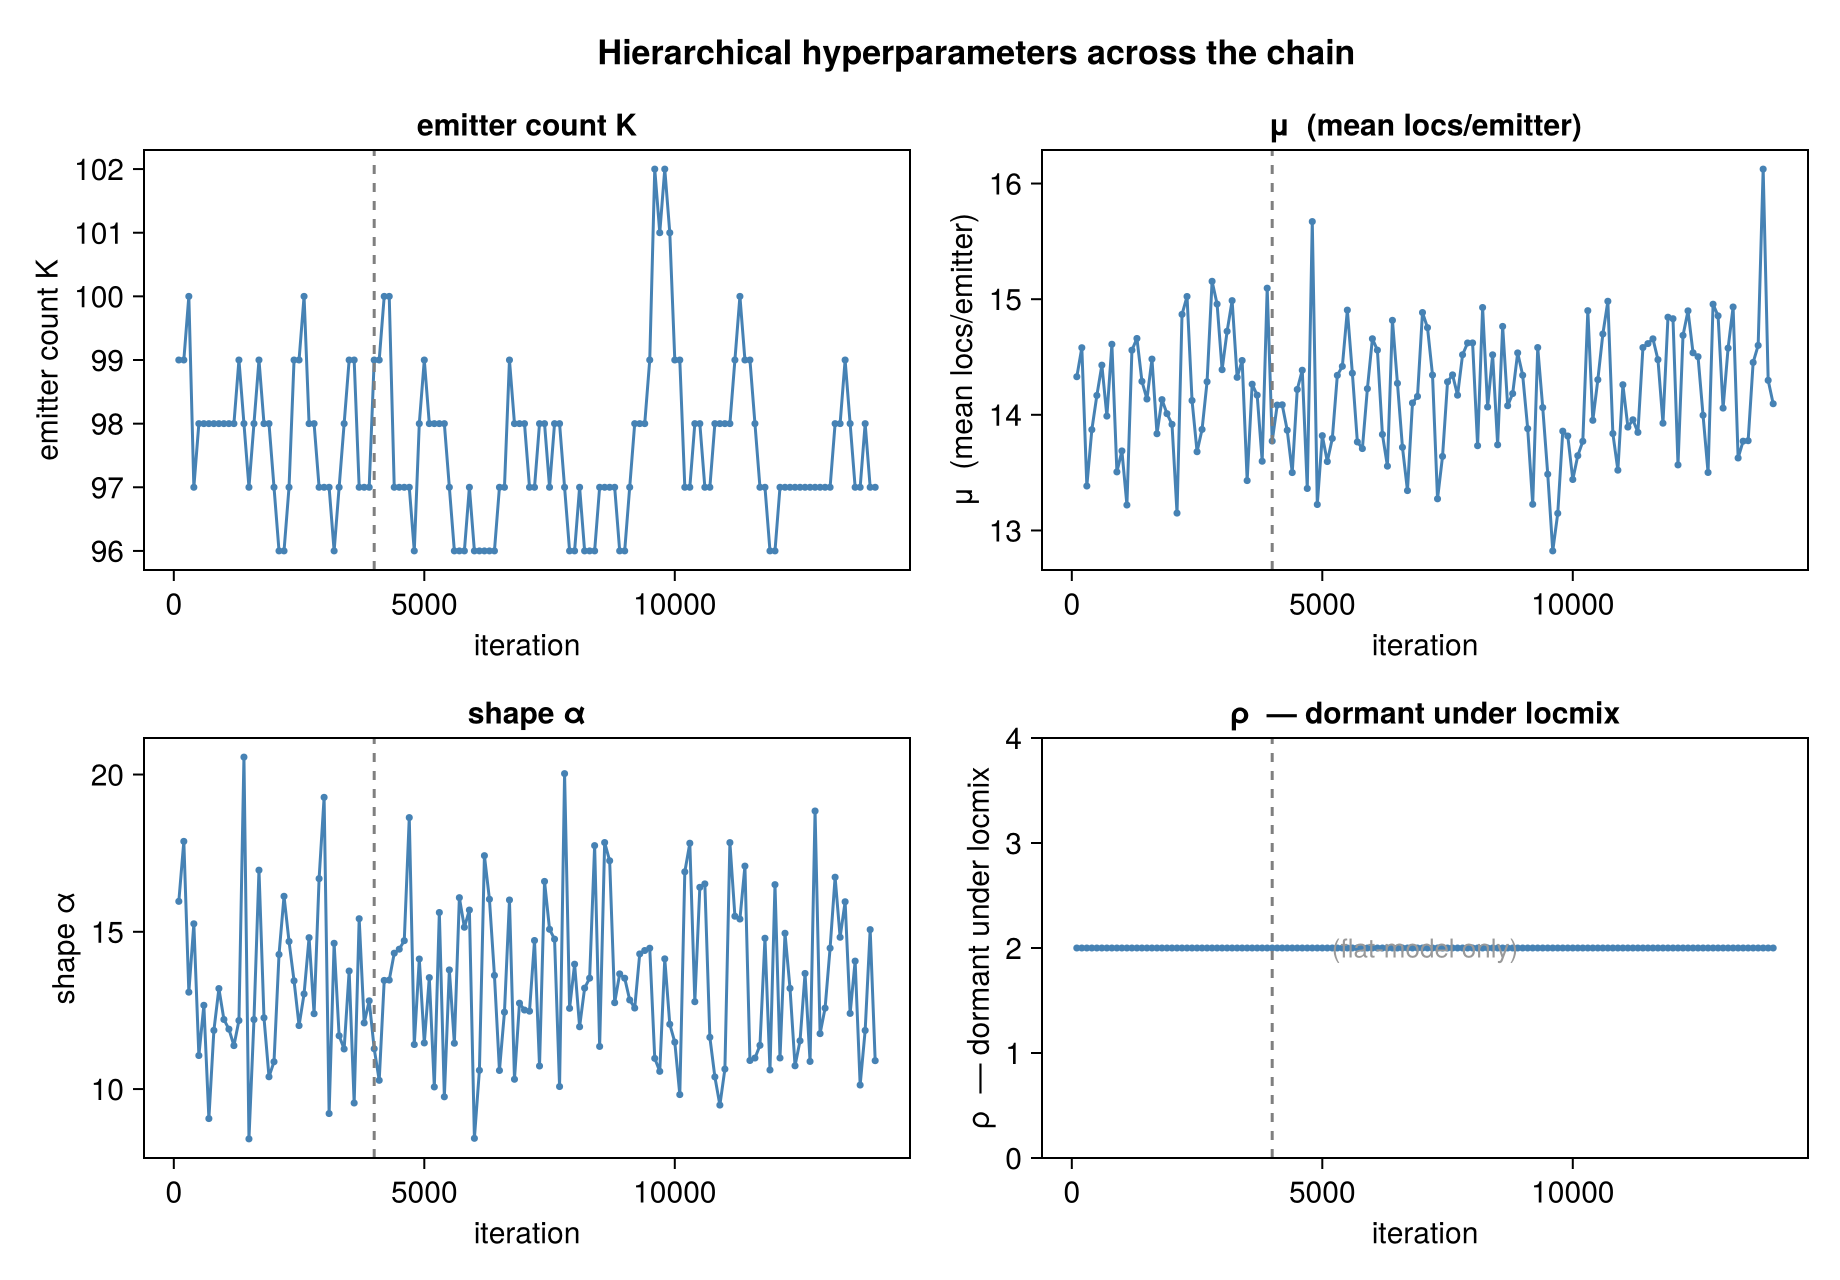
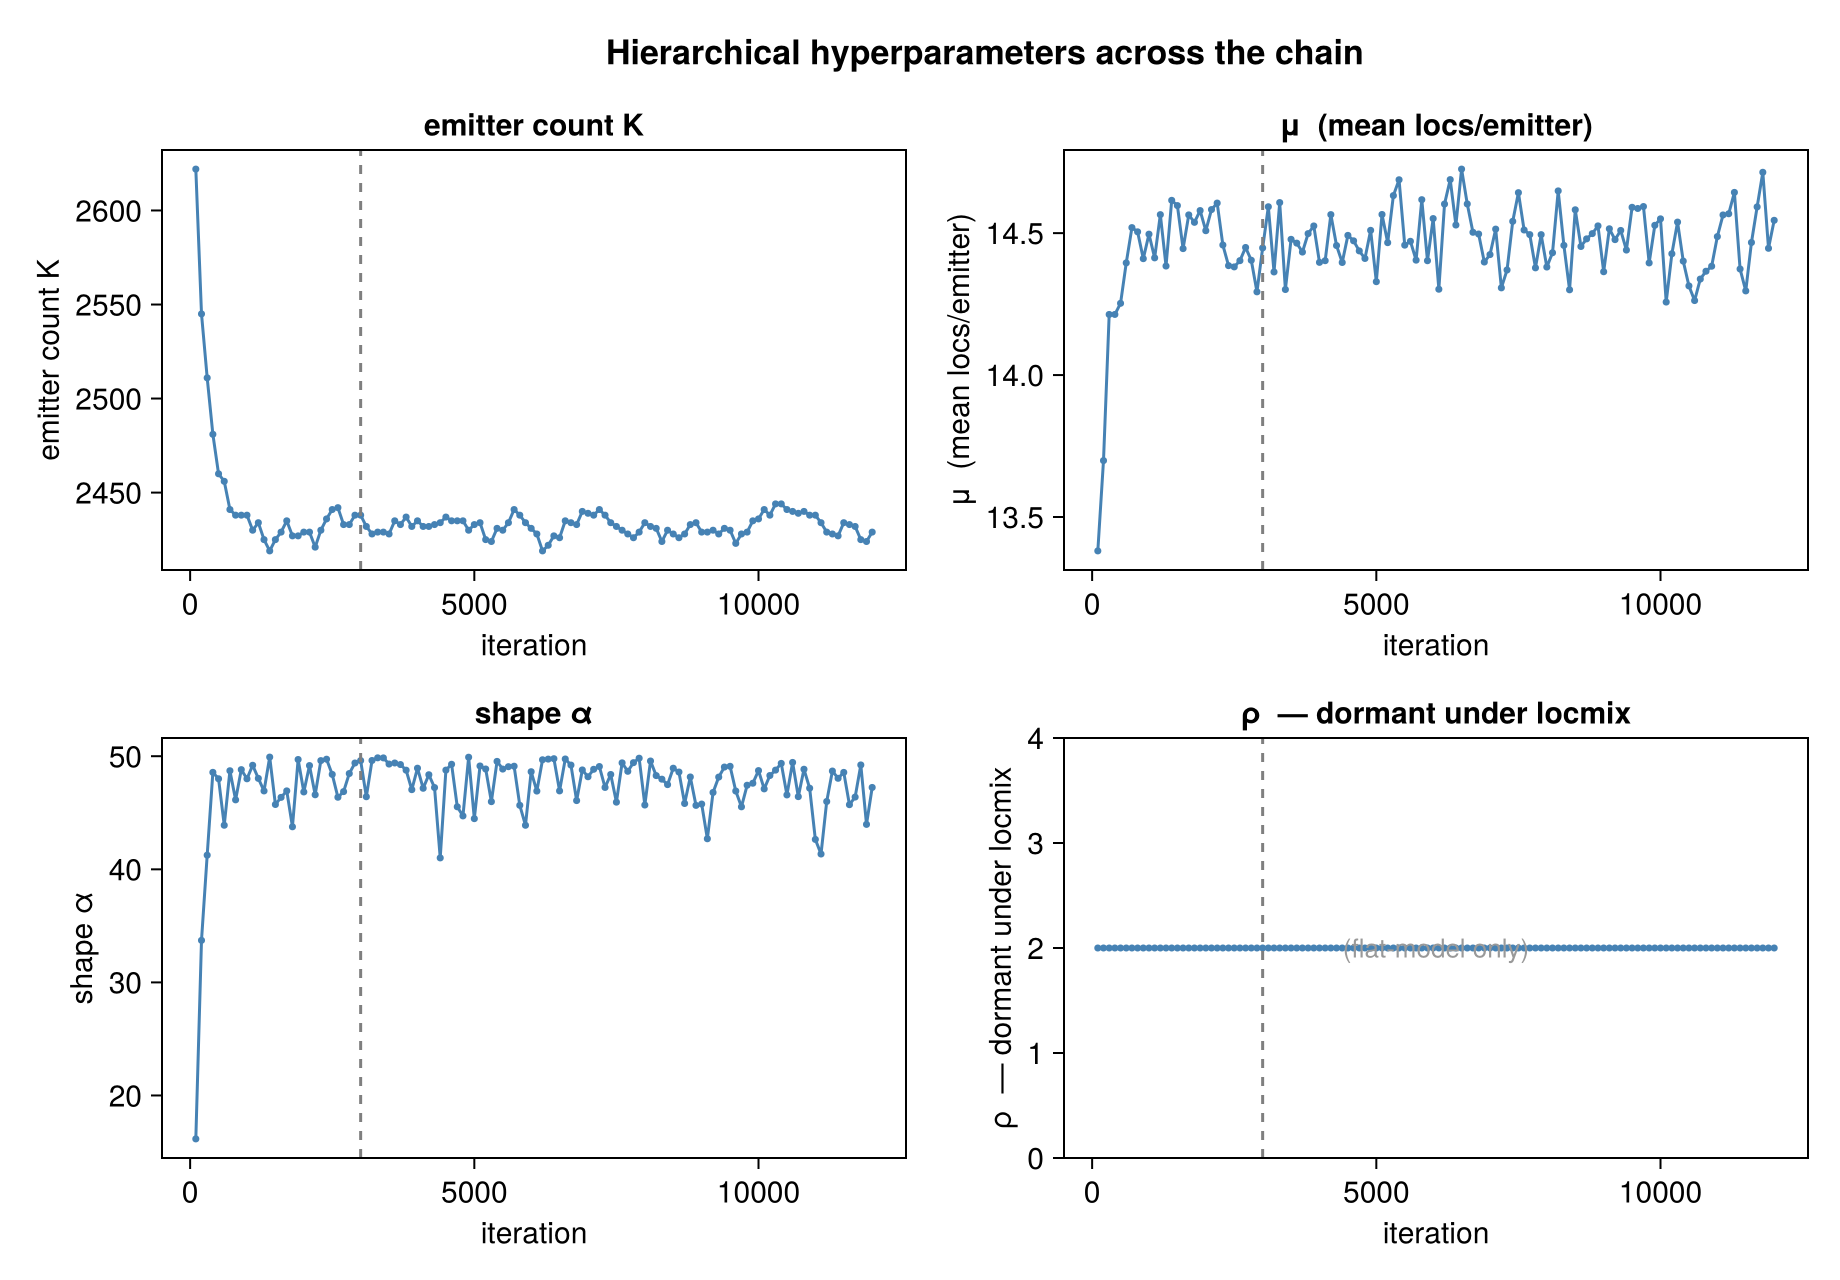
docs: hierarchical figures from a 2400-emitter field (20x20 hexamer grid)
Add run_bigcount (20x20 hexamers ~2400 emitters, ~30s on 32 threads) and route the
convergence and learned-vs-true count figures to it; keep run_grid (4x4) for the
partition figure. At realistic scale the learner recovers the count distribution
closely: learned mu=14.4 vs true 14.7, and shape climbs from the prior to alpha~49
(vs the 96-emitter run alpha~11), so the learned and true curves nearly overlap.
The convergence trace now shows K, mu, and shape all settling consistently with the
count figure.

Also fix a scoping bug: BC was missing from the main() local declaration, so the
whole convergence/count block was silently skipped. Captions note the ~2400-emitter scale.

diff --git a/docs/src/math/hierarchical.md b/docs/src/math/hierarchical.md
@@ -65,8 +65,10 @@ Two regimes exist:
 
 ![K, μ, shape, ρ convergence traces](../assets/hier_convergence.png)
 
-*The ``K`` / ``\mu`` / shape / ``\rho`` traces over the chain with the burn-in line. ``\rho``
-stays flat — it is dormant under the default locmix model. The standard burn-in diagnostic.*
+*The ``K`` / ``\mu`` / shape / ``\rho`` traces over the chain with the burn-in line, for a
+field of ~2400 emitters (``K`` is the total emitter count). ``\mu`` and shape settle as the
+chain learns the count distribution; ``\rho`` stays flat — it is dormant under the default
+locmix model.*
 
 ## ``\rho`` — conjugate Gibbs (flat model only)
 
@@ -89,8 +91,9 @@ vice versa. The convergence trace above is the direct readout of this feedback.
 
 ![Learned vs true count distribution](../assets/priors_negbin.png)
 
-*The count distribution the sampler learns (red) against the true generating one (blue),
-with their means — the hyperparameter MH recovering an approximate NegBin.*
+*The count distribution the sampler learns (red) against the true generating one (blue), with
+their means (dashed), over a field of ~2400 emitters. With realistic statistics the learned
+distribution tracks the true one closely.*
 
 Once the chain has run, we still need a single point estimate from the posterior — that is
 [MAP-N Estimation](mapn.md).
